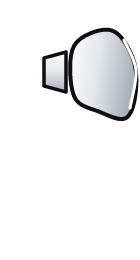
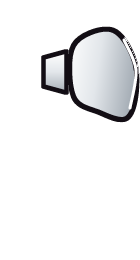
Art: bold outlined paper-doll weapons (thicken + dark rim tool, sources in doll_src)

diff --git a/tools/assets/bold_doll.py b/tools/assets/bold_doll.py
@@ -1,0 +1,78 @@
+"""Утолщение спрайтов куклы снаряжения (плейтест 2026-11: «оружие на герое — почти невидимые тонкие штрихи»).
+
+Для каждого оружия ui/doll/<kind>.png (основа) и <kind>_metal.png (металл, его красит код по материалу):
+  * тонкие детали утолщаются на ~1 px (MaxFilter по каналам — цвета плоские, так что не «плывут»);
+  * основа получает тёмный контур толщиной ~4 px по объединению основы и металла — силуэт читается
+    на любом фоне боя, а металл ложится поверх и тонируется как прежде.
+Исходники хранятся в images/ui/doll_src (копируются при первом запуске), повтор идемпотентен.
+
+    python tools/assets/bold_doll.py [--sheet out.png]
+"""
+from __future__ import annotations
+
+import argparse
+import shutil
+from pathlib import Path
+
+from PIL import Image, ImageChops, ImageFilter
+
+ROOT = Path(__file__).resolve().parents[2]
+DOLL = ROOT / "mod/SlayTheRequiem/images/ui/doll"
+SRC = ROOT / "mod/SlayTheRequiem/images/ui/doll_src"
+OUTLINE = (24, 17, 12)
+
+
+def fatten(img: Image.Image) -> Image.Image:
+    r, g, b, a = img.split()
+    a2 = a.filter(ImageFilter.MaxFilter(3))
+    # цвет для новых пикселей — из соседей (MaxFilter по RGB, взвешенный по альфе исходника)
+    rgb = Image.merge("RGB", (r, g, b))
+    premult = Image.composite(rgb, Image.new("RGB", img.size, (0, 0, 0)), a.point(lambda v: 255 if v > 40 else 0))
+    spread = premult.filter(ImageFilter.MaxFilter(3))
+    rgb2 = Image.composite(rgb, spread, a.point(lambda v: 255 if v > 40 else 0))
+    return Image.merge("RGBA", (*rgb2.split(), a2))
+
+
+def outline(alpha: Image.Image, px: int) -> Image.Image:
+    grown = alpha.point(lambda v: 255 if v > 30 else 0).filter(ImageFilter.MaxFilter(px * 2 + 1))
+    grown = grown.filter(ImageFilter.GaussianBlur(0.8))
+    layer = Image.new("RGBA", alpha.size, (*OUTLINE, 0))
+    layer.putalpha(grown.point(lambda v: int(v * 0.92)))
+    return layer
+
+
+def main() -> None:
+    ap = argparse.ArgumentParser()
+    ap.add_argument("--sheet")
+    args = ap.parse_args()
+    SRC.mkdir(exist_ok=True)
+    for f in DOLL.glob("*.png"):
+        if not (SRC / f.name).exists():
+            shutil.copy2(f, SRC / f.name)
+    bases = sorted(f for f in SRC.glob("*.png") if not f.stem.endswith("_metal"))
+    previews = []
+    for base_path in bases:
+        base = fatten(Image.open(base_path).convert("RGBA"))
+        metal_path = SRC / f"{base_path.stem}_metal.png"
+        metal = fatten(Image.open(metal_path).convert("RGBA")) if metal_path.exists() else None
+        union = base.getchannel("A") if metal is None else ImageChops.lighter(base.getchannel("A"), metal.getchannel("A"))
+        out = outline(union, 4)
+        out.alpha_composite(base)
+        out.save(DOLL / base_path.name)
+        if metal is not None:
+            metal.save(DOLL / metal_path.name)
+            prev = out.copy()
+            prev.alpha_composite(metal)
+        else:
+            prev = out
+        previews.append(prev)
+    print(f"спрайтов куклы: {len(bases)}")
+    if args.sheet:
+        sheet = Image.new("RGBA", (len(previews) * 150, 280), (70, 60, 55, 255))
+        for i, p in enumerate(previews):
+            sheet.alpha_composite(p, (i * 150 + 5, 10))
+        sheet.save(args.sheet)
+
+
+if __name__ == "__main__":
+    main()
